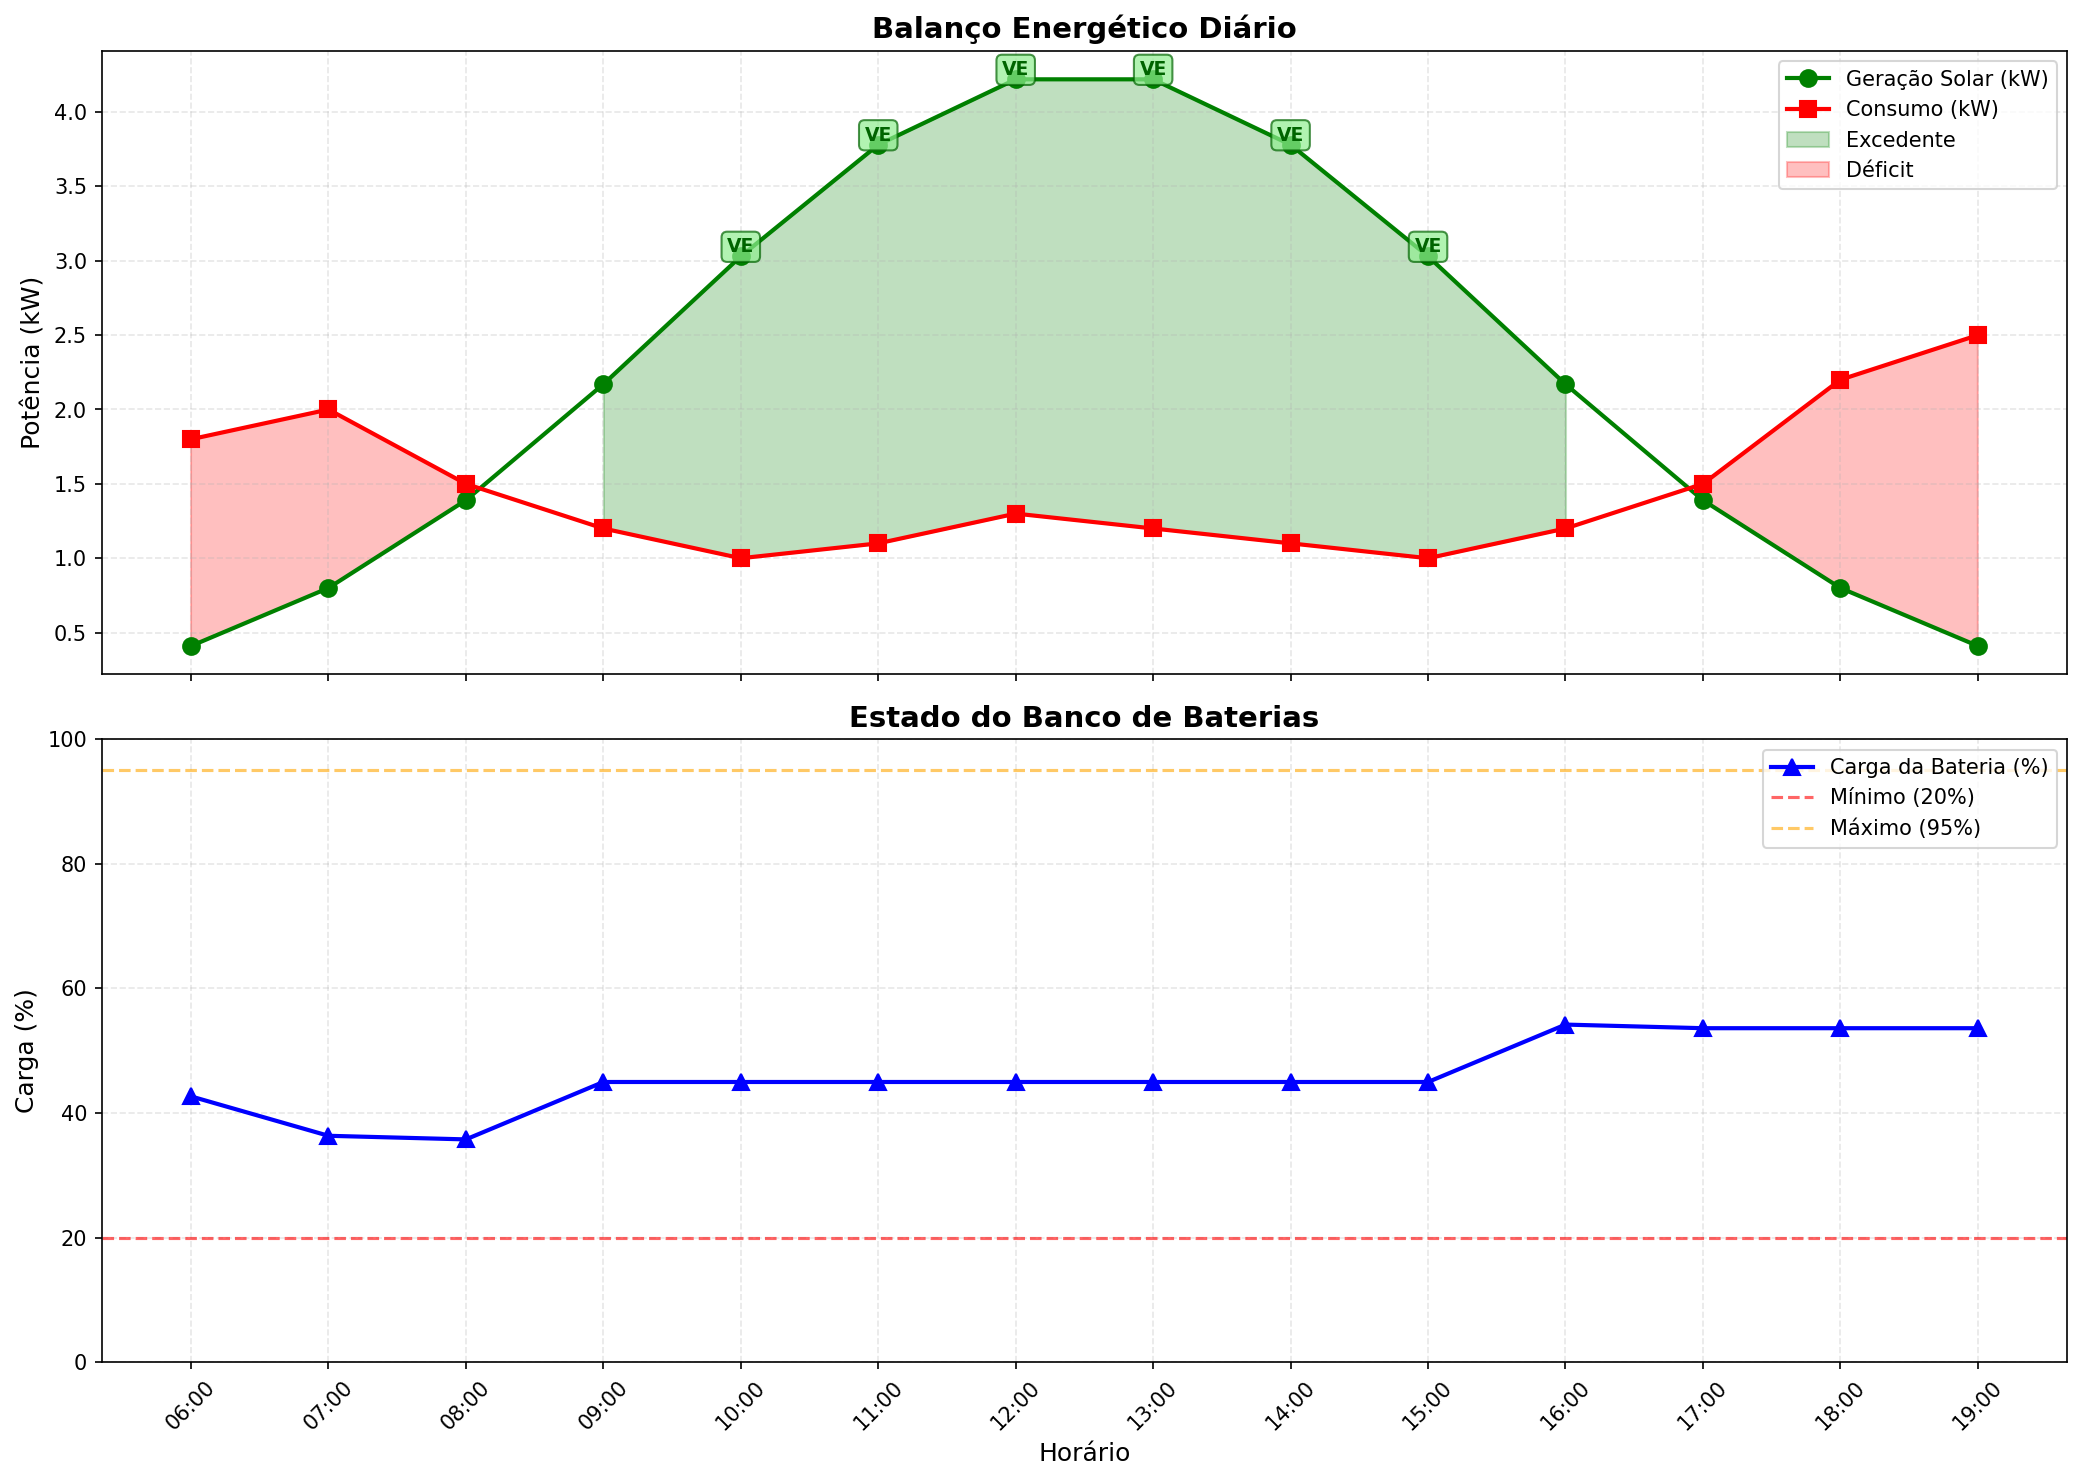
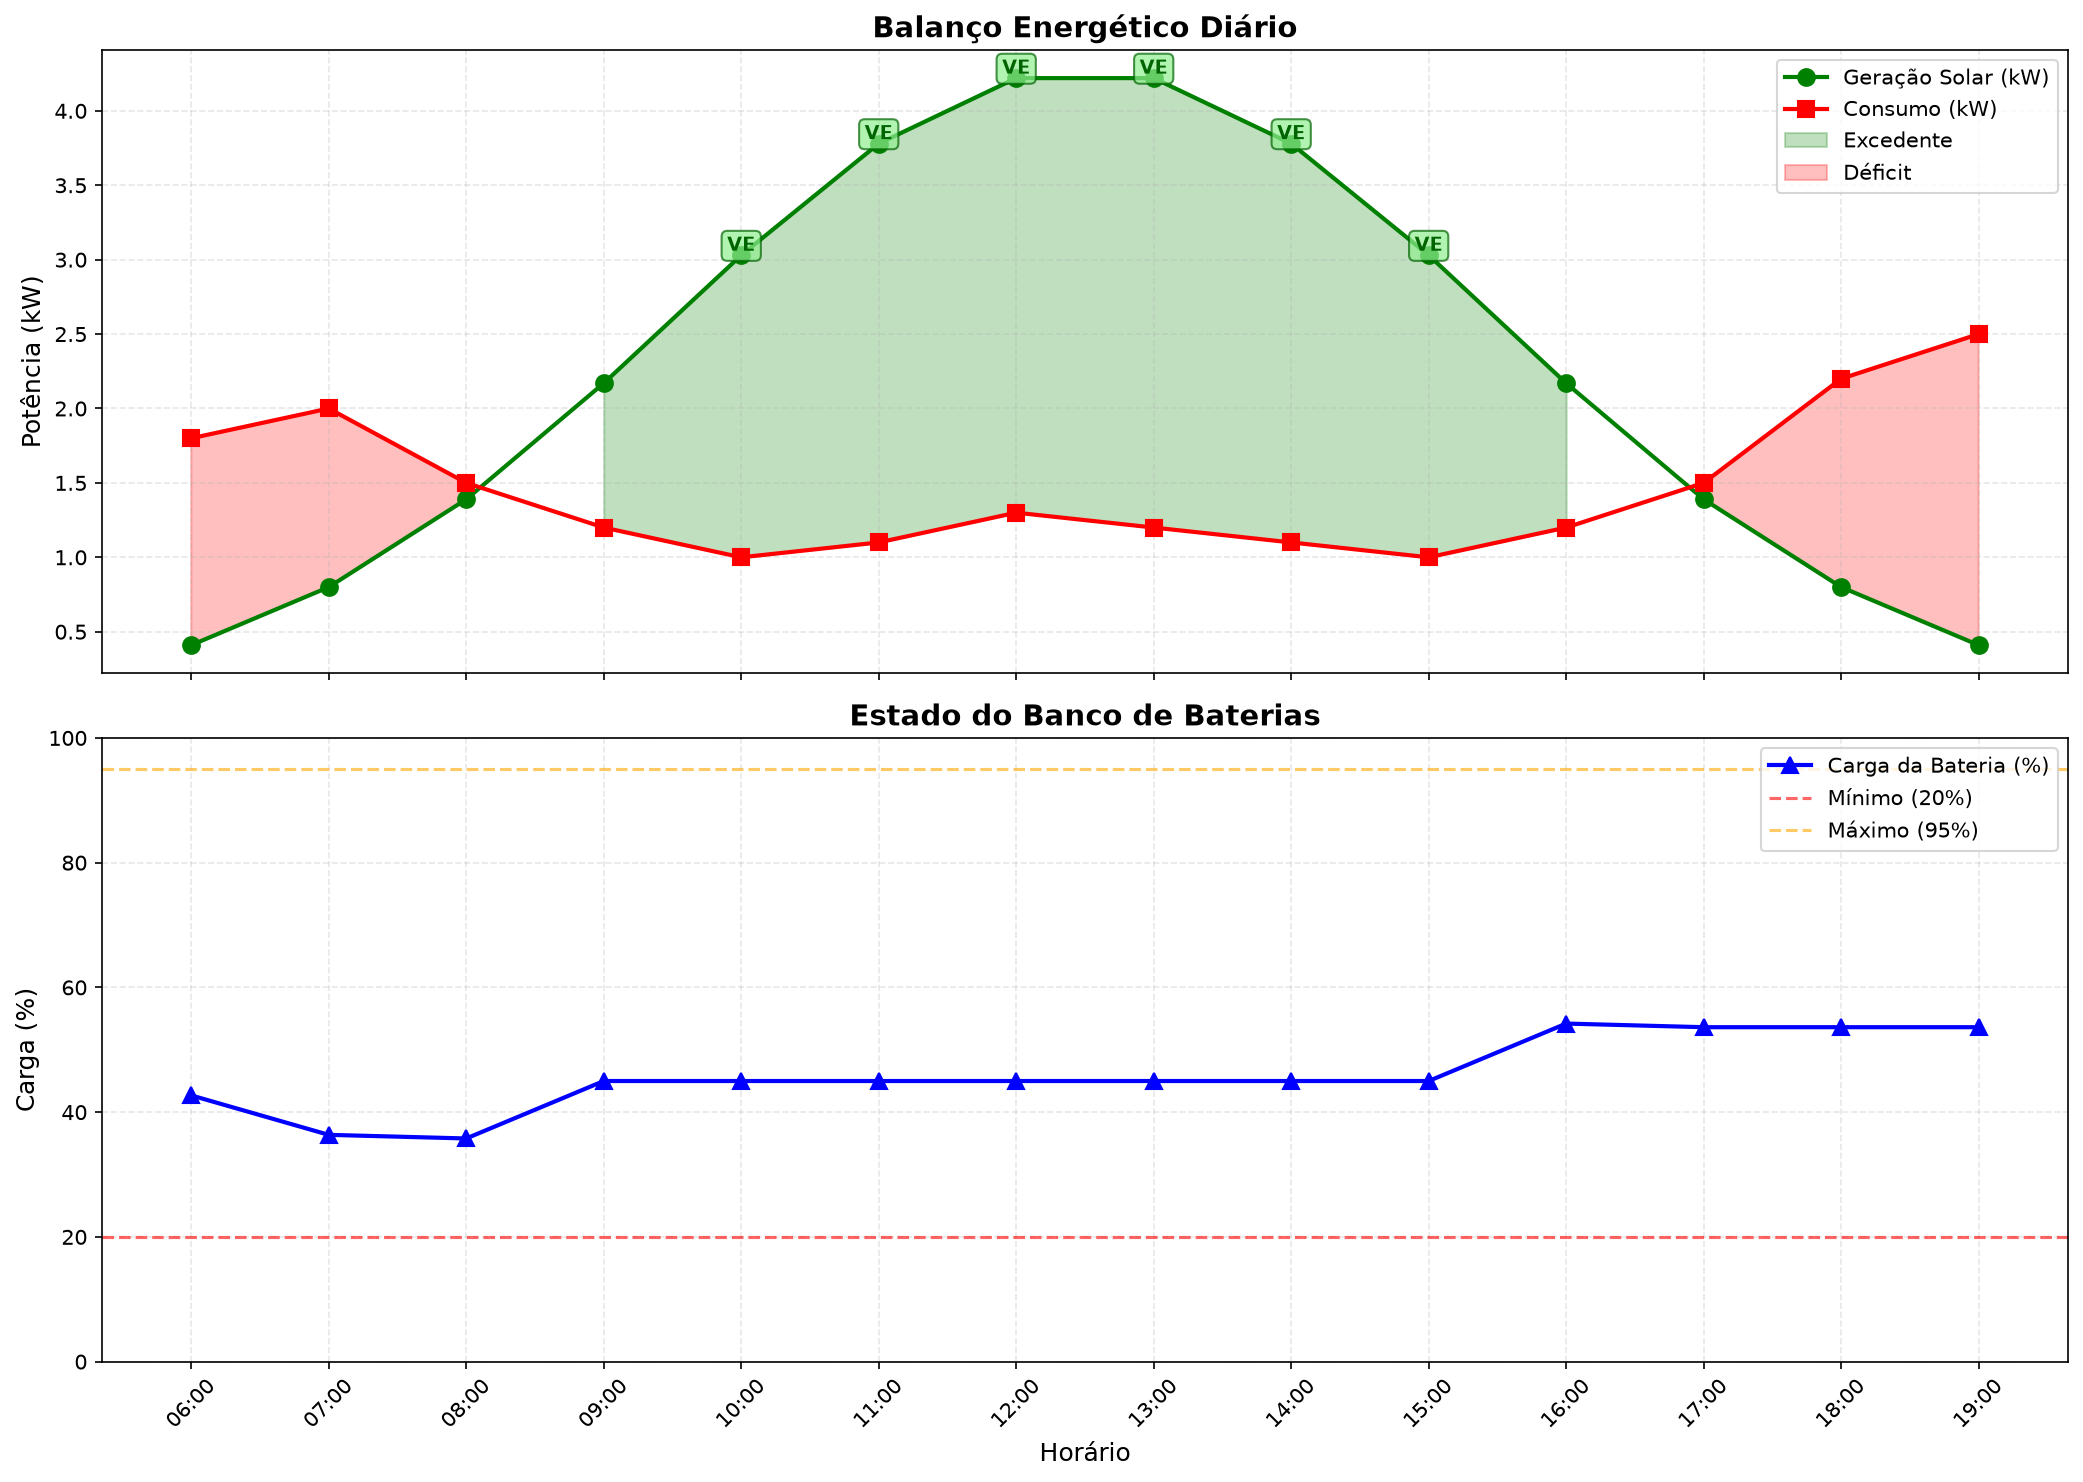
Fix README.md

diff --git a/README.md b/README.md
@@ -203,7 +203,6 @@ Sprint Tritiack/
 ```bash
 # 1. Clonar o repositório
 git clone https://github.com/Twerthzin/ChargeGrid-Sprint-3.git
-cd SEU-REPO
 
 # 2. (Opcional) Criar ambiente virtual
 python -m venv venv
@@ -297,7 +296,7 @@ Este projeto aplica diretamente os conceitos estudados:
 
 ##  Vídeo de Demonstração
 
- [Link do vídeo no YouTube (não listado)](https://youtube.com/SEU-LINK-AQUI)
+https://youtu.be/4WoDNm7HMCo
 
 ---
 
